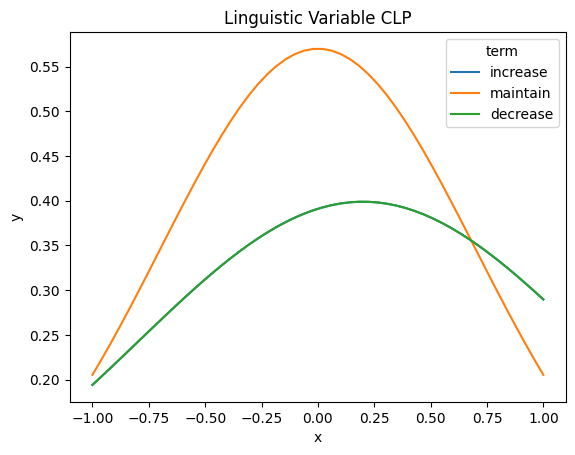
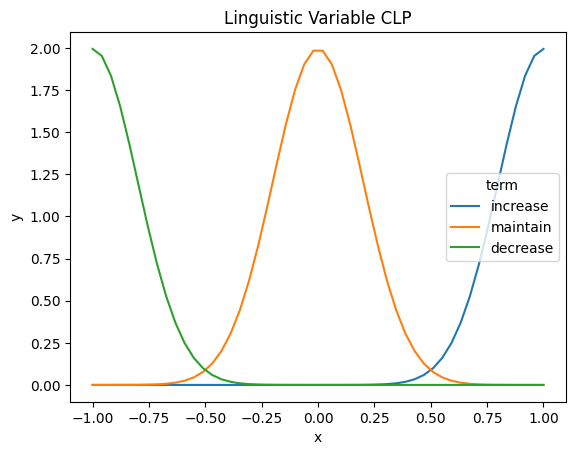
better values

diff --git a/fuzzy/models/mamdani_gaussian.py b/fuzzy/models/mamdani_gaussian.py
@@ -30,19 +30,19 @@ L4 = FuzzySet(function=Gaussian_MF(mu=200,sigma=100), term="poor")
 FS.add_linguistic_variable("Latency", LinguisticVariable([L1,L2,L3, L4], universe_of_discourse=[0,300]))
 
 # CLP Variation (output)
-CLP3 = FuzzySet(function=Gaussian_MF(mu=--0.2,sigma=1), term="decrease")  # TODO add an overlap between Fuzzy sets
-CLP2 = FuzzySet(function=Gaussian_MF(mu=0,sigma=0.7), term="maintain")
-CLP1 = FuzzySet(function=Gaussian_MF(mu=0.2,sigma=1), term="increase")
+CLP3 = FuzzySet(function=Gaussian_MF(mu=-1,sigma=0.2), term="decrease")  # TODO add an overlap between Fuzzy sets
+CLP2 = FuzzySet(function=Gaussian_MF(mu=0,sigma=0.2), term="maintain")
+CLP1 = FuzzySet(function=Gaussian_MF(mu=1,sigma=0.2), term="increase")
 FS.add_linguistic_variable("CLP", LinguisticVariable([CLP1, CLP2, CLP3], universe_of_discourse=[-1,1]))
 
 FS.add_rules([
-    "IF (Latency IS poor) THEN (CLP IS increase)", #if the
-    "IF (MemoryUsage IS medium) AND (ProcessorLoad IS medium) THEN (CLP IS increase)",
-    "IF (MemoryUsage IS low) AND (ProcessorLoad IS medium) THEN (CLP IS increase)",
-    "IF (MemoryUsage IS medium) AND (ProcessorLoad IS low) THEN (CLP IS increase)",
+    #"IF (Latency IS poor) THEN (CLP IS increase)",
+    #"IF (MemoryUsage IS medium) AND (ProcessorLoad IS medium) THEN (CLP IS increase)",
+    #"IF (MemoryUsage IS low) AND (ProcessorLoad IS medium) THEN (CLP IS increase)",
+    #"IF (MemoryUsage IS medium) AND (ProcessorLoad IS low) THEN (CLP IS increase)",
     "IF (MemoryUsage IS low) AND (ProcessorLoad IS low) THEN (CLP IS increase)",
     "IF (MemoryUsage IS critical) OR (ProcessorLoad IS critical) THEN (CLP IS decrease)",
-    "IF (MemoryUsage IS high) OR (ProcessorLoad IS high) THEN (CLP IS maintain)"
+    #"IF (MemoryUsage IS high) OR (ProcessorLoad IS high) THEN (CLP IS maintain)",
 ])
 
 if __name__ == '__main__':
@@ -56,7 +56,7 @@ if __name__ == '__main__':
         os.makedirs(save_path)
 
     plot_inputs_outputs_fuzzy_system(FS, save_path)
-    plot_memory_processor_surface(FS, save_path)
+    plot_memory_processor_clp(FS, save_path)
 
     with open(f"{save_path}/model.pkl", "wb") as f:
         pickle.dump(FS, f)
